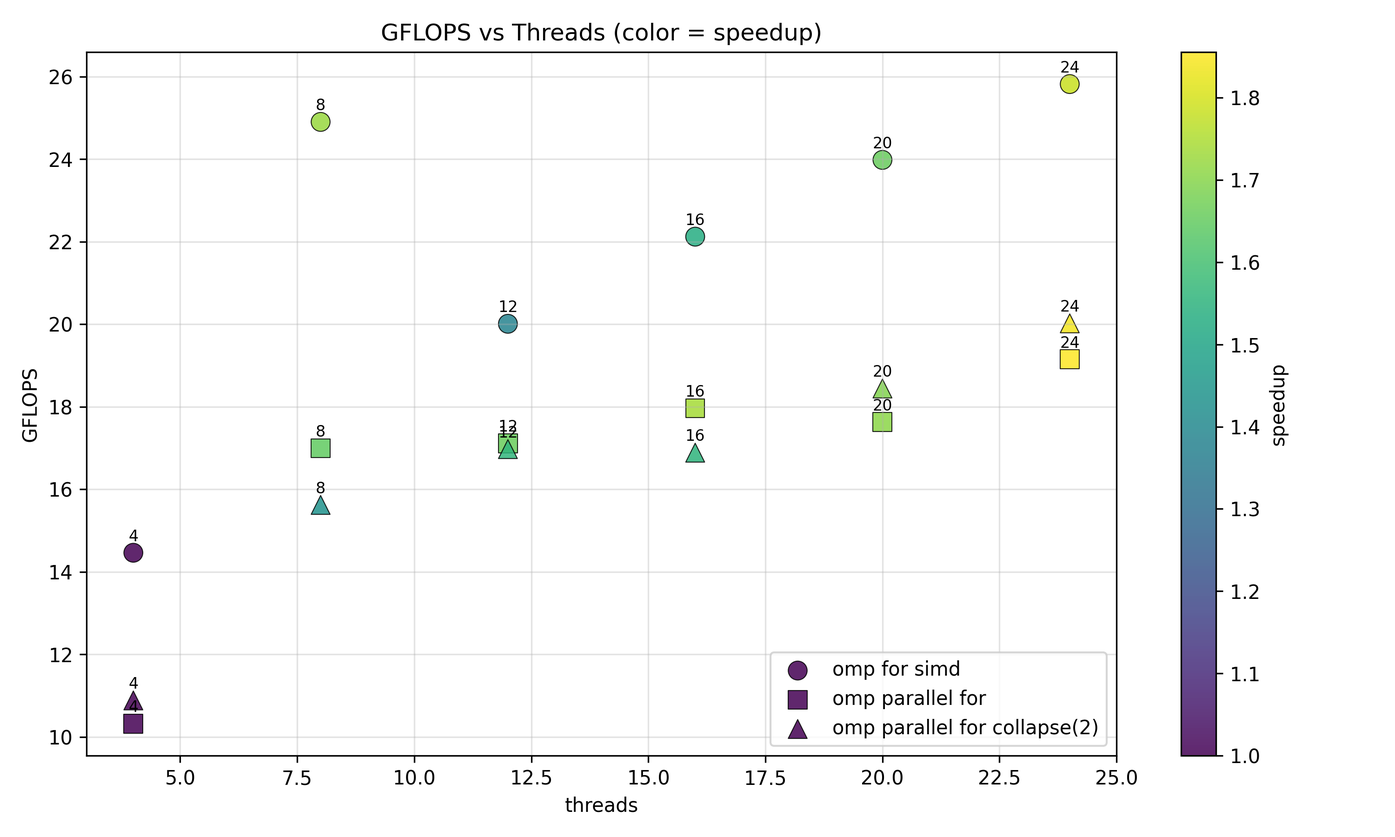
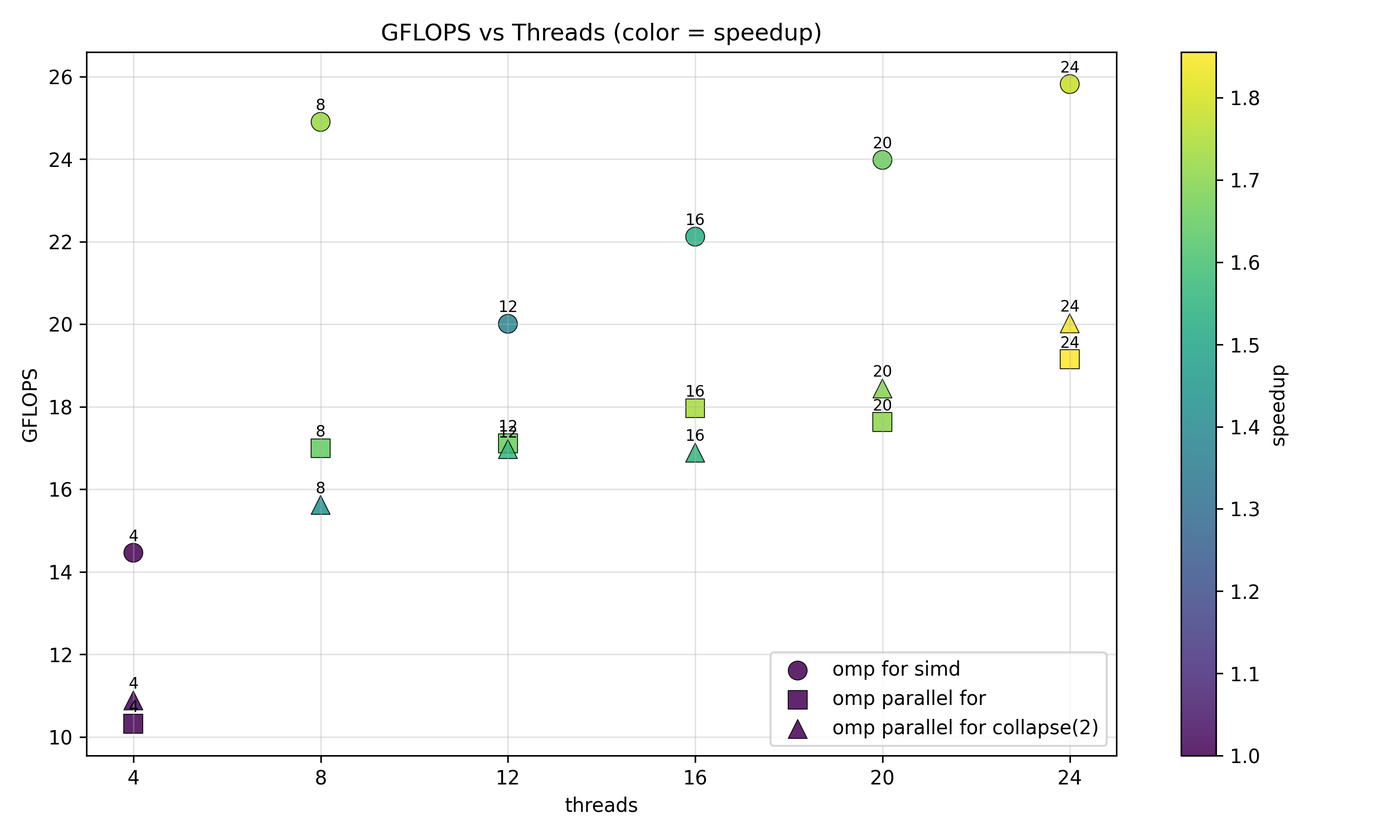
quase pronto

diff --git a/assign2/src/analyze_part2_ex2.py b/assign2/src/analyze_part2_ex2.py
@@ -13,6 +13,7 @@ import pandas as pd
 
 
 BASELINE_THREADS = 4
+THREAD_TICKS = [4, 8, 12, 16, 20, 24]
 INPUT_FILES = [
     "perf_results_onmultline_ex2_pragma_omp_parallel_for.txt",
     "perf_results_onmultline_ex2_pragma_omp_parallel_for_collapse(2).txt",
@@ -247,6 +248,15 @@ def add_incremental_metrics(df: pd.DataFrame) -> pd.DataFrame:
     return out
 
 
+def _apply_thread_ticks(ax: plt.Axes, x_col: str) -> None:
+    """Force discrete tested thread ticks for any thread-based x-axis."""
+    if x_col != "threads":
+        return
+
+    ax.set_xticks(THREAD_TICKS)
+    ax.set_xticklabels([str(t) for t in THREAD_TICKS])
+
+
 def plot_line(
     df: pd.DataFrame,
     x_col: str,
@@ -288,6 +298,7 @@ def plot_line(
     ax.set_title(title)
     ax.set_xlabel(x_label)
     ax.set_ylabel(y_label)
+    _apply_thread_ticks(ax, x_col)
     ax.grid(True, alpha=0.35)
     ax.legend()
 
@@ -360,6 +371,7 @@ def plot_scatter(
     ax.set_title(title)
     ax.set_xlabel(x_label)
     ax.set_ylabel(y_label)
+    _apply_thread_ticks(ax, x_col)
     ax.grid(True, alpha=0.35)
     ax.legend()
 

diff --git a/assign2/src/README.md b/assign2/src/README.md
@@ -32,107 +32,119 @@ Cache miss rate gives secondary context when we need to explain scaling changes.
 
 ![](plots_ex1/gflops_vs_size.png)
 
-The execution-time plot shows a clear ordering: OnMult - omp parallel for and OnMultLine - parallel stay ahead of OnMult - omp parallel + omp for as matrix size grows. The GFLOPS plot beside it supports the same result because the slower method is also the one with lower throughput.
+The results show a consistent ordering across all matrix sizes: **OnMultLine - parallel** is the fastest implementation, followed by **OnMult - omp parallel for**, while **OnMult - omp parallel + omp for** performs significantly worse. The GFLOPS plot confirms the same ranking, indicating that the differences in execution time directly translate into differences in computational throughput.
 
-The reason is directly related to how the OpenMP directives are used. In OnMult - omp parallel for, the runtime creates the parallel region and distributes iterations in one combined step, so threads move quickly into useful loop work. In OnMult - omp parallel + omp for, region creation and work-sharing are separated, which adds coordination and synchronization overhead around the parallel loop. OnMultLine - parallel keeps threads busy with stable work chunks and avoids spending too much time in runtime control.
+This behavior is explained by how each implementation uses OpenMP. In **OnMult - omp parallel for**, thread creation and loop distribution are handled in a single directive, minimizing runtime overhead and allowing threads to move quickly into useful computation. In contrast, **OnMult - omp parallel + omp for** separates the parallel region from the work-sharing construct, introducing additional synchronization and coordination costs that reduce the effective work done by each thread. These overheads become more significant as the matrix size increases, leading to poorer scalability.
 
-The implication is that, with the same 4-thread budget, directive structure matters a lot: OnMult - omp parallel for and OnMultLine - parallel spend more time multiplying matrices, while OnMult - omp parallel + omp for loses more time in OpenMP management.
+**OnMultLine - parallel** achieves the best performance because it maintains a more balanced and continuous distribution of work across threads, ensuring that threads remain active for a larger portion of execution time. This results in both lower execution time and higher GFLOPS.
+
+Overall, the results show that with a fixed number of threads, performance depends strongly on how efficiently the OpenMP directives are structured. Implementations that minimize overhead and keep threads focused on useful work achieve better performance, while those with additional synchronization costs scale poorly.
 
 ### 4.2 GFLOPS
 ![](plots_ex1/gflops_vs_size.png)
 
 ![](plots_ex1/version1_vs_version2_gflops.png)
 
-The GFLOPS plots show that OnMult - omp parallel for usually stays above OnMult - omp parallel + omp for, and OnMultLine - parallel remains strong across the tested sizes. The direct comparison between the two OnMult variants confirms that this is a stable behavior, not just a random fluctuation.
+The GFLOPS results show a clear and consistent ordering: **OnMultLine - parallel** achieves the highest throughput across all matrix sizes, followed by **OnMult - omp parallel for**, while **OnMult - omp parallel + omp for** remains significantly lower. The direct comparison between Version 1 and Version 2 confirms that this gap is consistent and not dependent on a specific matrix size.
 
-The cause is simple: GFLOPS falls when threads spend time doing anything other than floating-point work. OnMult - omp parallel for has less directive overhead because it uses one combined OpenMP construct to launch and distribute work. OnMult - omp parallel + omp for adds extra control steps and synchronization around the loop, so more time is spent outside computation. OnMultLine - parallel keeps useful arithmetic density high enough to remain competitive.
+This behavior is explained by how effectively each implementation converts execution time into useful floating-point work. In **OnMult - omp parallel for**, the combined directive allows threads to enter the computation phase with minimal coordination overhead, resulting in moderate but stable throughput. In contrast, **OnMult - omp parallel + omp for** introduces additional synchronization and runtime management due to the separation of the parallel region and the loop, reducing the fraction of time spent performing arithmetic operations and therefore lowering GFLOPS.
 
-The implication is that higher GFLOPS here means better conversion of thread time into real matrix operations, and that favors OnMult - omp parallel for and OnMultLine - parallel over OnMult - omp parallel + omp for.
+**OnMultLine - parallel** achieves the highest GFLOPS because it maintains a higher density of useful work within each thread. The loop structure and parallelization allow threads to remain active with fewer interruptions, which leads to better utilization of the available processing capacity. As a result, it consistently outperforms both Version 1 implementations in terms of computational throughput.
+
+A slight decrease in GFLOPS is observed for all implementations as matrix size increases, indicating reduced parallel efficiency for larger workloads. However, the relative differences between implementations remain stable, showing that the dominant factor is the efficiency of the OpenMP structure rather than the problem size itself.
+
+Overall, the GFLOPS results reinforce that performance depends on how directly the OpenMP directives map threads to useful computation. Implementations that minimize coordination overhead and keep threads focused on arithmetic operations achieve higher throughput, while those with additional synchronization costs perform significantly worse.
 
 ### 4.3 Speedup
 ![](plots_ex1/speedup_vs_size.png)
 
-The speedup plot again places OnMult - omp parallel for and OnMultLine - parallel above OnMult - omp parallel + omp for through most of the tested range. That means the same 4 threads are producing different levels of useful acceleration depending on the construct.
+The speedup results show a clear distinction between the implementations. **OnMult - omp parallel for** achieves the highest speedup, approaching and even slightly exceeding the ideal value for 4 threads, while **OnMultLine - parallel** maintains a stable but lower speedup. In contrast, **OnMult - omp parallel + omp for** performs poorly, with speedup remaining close to 1, indicating that parallelization brings little benefit in this case.
 
-This happens because speedup is measured after all overhead is included. OnMult - omp parallel + omp for spends extra time coordinating between parallel region handling and work-sharing, so part of the theoretical gain is consumed before useful work is done. OnMult - omp parallel for has a more direct path from thread launch to loop execution, and OnMultLine - parallel keeps thread participation more consistently useful.
+This behavior is directly related to how efficiently each implementation uses the available threads. In **OnMult - omp parallel for**, the OpenMP directive combines thread creation and loop distribution, allowing work to be assigned to threads with minimal overhead. This results in a higher fraction of execution time being spent on actual computation, which translates into better speedup. In **OnMult - omp parallel + omp for**, the separation between the parallel region and the work-sharing construct introduces additional synchronization and coordination costs. These overheads reduce the effective contribution of each thread, so the theoretical speedup is not achieved in practice.
 
-The implication is that speedup in Exercise 1 reflects quality of parallelization, not just number of threads, and the construct with less synchronization overhead wins.
+Although **OnMultLine - parallel** is the fastest implementation in absolute terms, its speedup is lower because its sequential version is already more efficient, leaving less room for improvement through parallelization. As a result, even though it performs more work per unit time, the relative gain compared to its sequential baseline is smaller.
+
+Overall, the results show that speedup is not determined only by the number of threads, but by how effectively those threads are used. Implementations that minimize overhead and keep threads focused on useful work, such as **omp parallel for**, achieve better scaling, while inefficient parallel structures can significantly limit the benefits of parallel execution.
+
+**Note:** Efficiency is not shown separately because, with a fixed number of 4 threads, it would simply be the speedup graph scaled by a constant factor.
 
 ### 4.4 IPC
 ![](plots_ex1/ipc_vs_size.png)
 
-The IPC plot follows the same ranking trend seen in time and GFLOPS: OnMult - omp parallel for and OnMultLine - parallel generally keep better effective IPC than OnMult - omp parallel + omp for. Where IPC is weaker, performance is usually weaker too.
+The IPC results follow the same pattern observed in execution time and GFLOPS: **OnMultLine - parallel** achieves the highest IPC across all matrix sizes, **OnMult - omp parallel for** remains moderate, and **OnMult - omp parallel + omp for** consistently shows the lowest values. This indicates that the implementations differ significantly in how effectively they use CPU cycles.
 
-The reason is that lower IPC often appears when cores spend more cycles waiting or doing low-value control work. OnMult - omp parallel + omp for includes more runtime handling and synchronization around loop scheduling, so cores can spend a larger share of cycles outside dense arithmetic regions. OnMult - omp parallel for and OnMultLine - parallel keep threads closer to useful computation, which helps maintain instruction retirement.
+This behavior is explained by how much time threads spend performing useful computation versus handling OpenMP overhead. In **OnMult - omp parallel for**, the combined directive allows threads to quickly enter the computation phase and remain there, resulting in a reasonable IPC. In contrast, **OnMult - omp parallel + omp for** introduces additional synchronization and runtime coordination, causing threads to spend more cycles outside arithmetic work, which lowers IPC. **OnMultLine - parallel** achieves the highest IPC because its parallel structure keeps threads continuously active with fewer interruptions, allowing instructions to be executed more consistently.
 
-The implication is that IPC is not just a side metric here; it confirms that OnMult - omp parallel for and OnMultLine - parallel use CPU cycles more productively than OnMult - omp parallel + omp for.
+As matrix size increases, IPC decreases for all implementations, indicating reduced execution efficiency as the workload grows. However, the relative ordering remains stable, showing that the main factor is not the workload itself, but how effectively each implementation keeps the CPU focused on useful work.
+
+Overall, IPC confirms that implementations with lower parallel overhead and better thread utilization execute instructions more efficiently, directly contributing to better performance.
 
 ### 4.5 Short Cache Note
 ![](plots_ex1/cache_miss_rate_vs_size.png)
 
-The cache-miss plot changes with problem size for OnMult - omp parallel for, OnMult - omp parallel + omp for, and OnMultLine - parallel, but the separation is not strong enough to fully explain the performance ranking by itself. The main ordering in runtime and GFLOPS lines up more clearly with OpenMP overhead differences.
+The cache miss rate increases with matrix size for all implementations, with **OnMultLine - parallel** showing the highest values, while both Version 1 implementations remain significantly lower. However, this trend does not match the performance results, since **OnMultLine - parallel** is still the fastest implementation despite having the highest miss rate.
 
-Because Exercise 1 keeps thread count fixed, this graph should be read carefully and not over-interpreted. It gives useful context, but it does not provide a stronger explanation than the construct-level overhead we see between OnMult - omp parallel for and OnMult - omp parallel + omp for.
+This shows that, in this exercise, cache behavior alone does not explain performance differences. With a fixed number of threads, the dominant factor is how efficiently each OpenMP construct manages parallel execution. In particular, **OnMult - omp parallel + omp for** performs worse even with relatively moderate miss rates, indicating that its main limitation comes from additional synchronization and runtime overhead rather than cache inefficiency.
 
-The implication is that cache effects exist, but in this part they are secondary; the primary explanation is still how each implementation manages threads and synchronization.
+Overall, the cache results provide useful context but are not the main driver of performance in Exercise 1. The differences between implementations are better explained by how effectively each approach minimizes overhead and keeps threads performing useful work.
 
 ### 4.6 Strategy Comparison
 ![](plots_ex1/version1_strategy_comparison_gflops.png)
 
-This direct comparison highlights the central result of Exercise 1: OnMult - omp parallel for is consistently stronger than OnMult - omp parallel + omp for, and the broader set of graphs shows OnMultLine - parallel also performing well in the same environment.
+The comparison between the two Version 1 strategies shows that **OnMult - omp parallel for** consistently achieves higher GFLOPS than **OnMult - omp parallel + omp for** across all matrix sizes, confirming that the difference in performance is systematic rather than incidental.
 
-The reason is explicit in the directive design. In OnMult - omp parallel for, a single OpenMP construct handles thread team creation and loop distribution together, which avoids extra transitions. In OnMult - omp parallel + omp for, the split between region creation and work-sharing introduces additional runtime coordination and synchronization costs that do not produce extra useful matrix work.
+This behavior is directly explained by the OpenMP structure. In **OnMult - omp parallel for**, thread creation and loop distribution are handled in a single directive, allowing iterations to be assigned with minimal runtime overhead and keeping threads focused on useful computation. In contrast, **OnMult - omp parallel + omp for** separates the parallel region from the work-sharing construct, introducing additional synchronization and coordination costs. These extra steps do not contribute to computation and reduce the effective work performed by each thread, leading to lower throughput.
 
-The implication is practical and clear: for this kernel, OnMult - omp parallel for is the better construct choice than OnMult - omp parallel + omp for when the goal is to maximize useful work under fixed threads.
+Overall, this comparison shows that, for this kernel, the choice of OpenMP construct has a direct impact on performance: a more compact directive structure (**omp parallel for**) results in better efficiency, while splitting the parallelization into multiple constructs introduces overhead that significantly limits performance.
 
 ## 5. Exercise 2 – Thread Scaling Analysis
 
 ### 5.1 Execution Time vs Threads
 ![](plots_ex2/execution_time_vs_threads.png)
 
-The execution-time plot shows that all three OnMultLine variants improve when moving from 4 threads upward, but the biggest gains happen early. As threads continue to increase, omp parallel for, omp parallel for collapse(2), and omp for simd all show slower improvement, which is a classic sign of diminishing returns.
+Execution time decreases significantly when moving from 4 to 8 threads for all implementations, but the improvement slows down as the number of threads increases, showing clear diminishing returns. Across all thread counts, **omp for simd** consistently achieves the lowest execution time, followed by **omp parallel for**, while **omp parallel for collapse(2)** starts slower but becomes competitive at higher thread counts.
 
-The cause comes from thread scaling mechanics. At lower thread counts, adding threads directly increases useful parallel work. At higher counts, each method pays more overhead in scheduling and synchronization. For omp parallel for collapse(2), the larger flattened iteration space can improve distribution but also adds scheduling pressure. For omp for simd, vectorization can boost per-thread computation, but it does not remove team-level coordination costs. Shared resources also become more contested as thread count rises.
+This behavior is explained by how each strategy scales with additional threads. At low thread counts, adding threads increases the amount of work done in parallel with relatively small overhead, leading to strong improvements. As the number of threads grows, however, synchronization, scheduling, and resource contention become more significant, reducing the benefit of each additional thread. In **omp parallel for collapse(2)**, flattening the iteration space improves load distribution, which helps at higher thread counts, but it also increases scheduling overhead. In **omp for simd**, vectorization improves per-thread computation, allowing it to maintain the best execution time, but it still suffers from the same global overheads as thread count increases.
 
-The implication is that runtime scaling should be judged by marginal gains: these methods all improve with threads, but only up to the point where overhead growth starts to dominate benefit growth.
+Overall, the results show that all implementations benefit from parallelization, but only up to a certain point. Beyond that, increasing the number of threads leads to smaller gains because overhead and contention begin to limit scalability.
 
 ### 5.2 Speedup vs Threads
 ![](plots_ex2/speedup_vs_threads.png)
 
-The speedup plot shows that omp parallel for, omp parallel for collapse(2), and omp for simd all stay below the ideal linear trend as threads increase. The curves rise, but the slope becomes smaller in the higher-thread region, indicating saturation.
+The speedup results are clearly sub-linear for all implementations, with all curves diverging significantly from the ideal linear scaling line as the number of threads increases. **omp parallel for** and **omp for simd** achieve slightly higher speedup overall, while **omp parallel for collapse(2)** starts lower but gradually converges as thread count increases.
 
-This happens because linear speedup assumes almost zero overhead, which is not realistic in OpenMP thread teams at high concurrency. omp parallel for accumulates more coordination cost as the team grows. omp parallel for collapse(2) can improve load distribution by exposing more loop iterations, but this also increases scheduling work. omp for simd can improve computation inside each thread, yet thread synchronization and resource contention still limit total scaling.
+This behavior is explained by the increasing impact of parallel overhead and resource contention. At low thread counts, adding threads directly increases useful parallel work, leading to noticeable speedup gains. However, as more threads are added, the cost of synchronization, scheduling, and coordination grows, reducing the effectiveness of each additional thread. In **omp parallel for collapse(2)**, flattening the iteration space improves load balancing, which helps recover performance at higher thread counts, but it also introduces additional scheduling overhead. In **omp for simd**, vectorization improves per-thread efficiency, but it does not eliminate the overhead associated with managing a larger thread team.
 
-The implication is that adding threads remains useful only while incremental speedup is meaningful; after saturation starts, thread increases give smaller and smaller practical benefits.
+As a result, each additional thread contributes less to overall speedup, leading to the observed saturation. This shows that scalability is limited not by the amount of parallel work alone, but by how efficiently threads can be coordinated and kept productive as their number increases.
 
 ### 5.3 Efficiency vs Threads
 ![](plots_ex2/efficiency_vs_threads.png)
 
-Efficiency decreases for omp parallel for, omp parallel for collapse(2), and omp for simd as thread count increases. Even in ranges where execution time still improves, each additional thread contributes less than the previous ones.
+Efficiency decreases for all implementations as the number of threads increases, even though execution time continues to improve. **omp parallel for** maintains the highest efficiency across most thread counts, while **omp parallel for collapse(2)** starts lower but follows a similar trend, and **omp for simd** drops more sharply after the initial gains.
 
-The reason is that efficiency captures how much useful acceleration we get per thread. As teams get larger, all three methods spend a bigger fraction of runtime on synchronization, scheduling, and contention-related waiting. omp for simd can keep per-thread compute stronger than non-simd variants in some ranges, but it still cannot avoid thread-team overhead entirely.
+This behavior is caused by the growing impact of parallel overhead as more threads are introduced. In **omp parallel for** and **omp parallel for collapse(2)**, increasing the number of threads raises synchronization and scheduling costs, reducing the amount of useful work performed per thread. Although **collapse(2)** improves load distribution by expanding the iteration space, it also adds scheduling overhead that limits its efficiency. In **omp for simd**, vectorization improves computation within each thread, but it does not reduce the overhead associated with managing a larger thread team, leading to a faster drop in efficiency.
 
-The implication is that efficiency is a practical warning signal: the best operating point is not always the highest thread count, but the point where added threads still return enough useful acceleration.
+Overall, the results show that scalability is limited by how quickly efficiency decreases. The most effective implementation is not the one that uses the most threads, but the one that maintains a higher fraction of useful work as thread count increases.
 
 ### 5.4 GFLOPS vs Threads
 ![](plots_ex2/gflops_vs_threads.png)
 
 ![](plots_ex2/gflops_vs_threads_scatter.png)
 
-The GFLOPS plot shows the same overall scaling pattern for omp parallel for, omp parallel for collapse(2), and omp for simd: throughput rises strongly at first, then begins to flatten. The scatter view confirms that moving to higher threads does not always produce equivalent throughput gains.
+GFLOPS increases significantly from 4 to 8 threads for all implementations, then grows more slowly and begins to plateau at higher thread counts. **omp for simd** achieves the highest throughput across all configurations, followed by **omp parallel for**, while **omp parallel for collapse(2)** improves steadily and becomes competitive at higher thread counts. The scatter plot confirms that higher thread counts do not always translate into proportional throughput gains.
 
-The cause depends on each construct. omp parallel for gives direct loop distribution and scales well initially, but eventually overhead and contention reduce marginal throughput. omp parallel for collapse(2) increases available iteration chunks by collapsing nested loops, which can improve distribution at some thread counts, but that extra scheduling complexity can also limit gains later. omp for simd raises per-thread arithmetic density through vector instructions, often helping early throughput, yet total GFLOPS still plateaus when team-level overhead dominates.
+This behavior is explained by the balance between useful computation and parallel overhead. At low thread counts, adding threads increases the amount of work executed in parallel, leading to strong gains in GFLOPS. As thread count grows, synchronization, scheduling, and resource contention limit how effectively additional threads can be used. In **omp parallel for**, loop distribution is efficient, but coordination costs increase with more threads. In **omp parallel for collapse(2)**, expanding the iteration space improves load balancing, which helps at higher thread counts, but the added scheduling complexity reduces efficiency. **omp for simd** achieves the highest GFLOPS because vectorization increases the amount of work performed per thread, but it still experiences the same plateau once thread-level overhead dominates.
 
-The implication is that omp for simd can improve computation quality inside each thread, but overall scalability still depends on OpenMP coordination behavior across the entire thread team.
+Overall, the results show that higher throughput depends on both per-thread efficiency and overall thread coordination. While **omp for simd** maximizes computation within each thread, all implementations eventually reach a point where parallel overhead limits further gains.
 
 ### 5.5 IPC vs Threads
 ![](plots_ex2/ipc_vs_threads.png)
 
-The IPC plot shows that omp parallel for, omp parallel for collapse(2), and omp for simd do not keep increasing instruction efficiency as threads grow. In higher-thread regions, IPC behavior is flatter or weaker, which matches the slowdown in speedup growth.
+IPC does not increase with thread count and remains relatively stable or even decreases at higher thread counts for all implementations. **omp parallel for** and **omp parallel for collapse(2)** maintain higher IPC values overall, while **omp for simd** stays consistently lower despite achieving the best execution time.
 
-This happens because high thread counts increase synchronization and runtime coordination, so cores spend more cycles in less productive states. omp for simd can help each thread execute arithmetic more efficiently, but team-level overhead and shared-resource pressure still reduce IPC improvement at scale. omp parallel for collapse(2) may improve load splitting, yet it can also add enough scheduling cost to limit IPC gains.
+This behavior reflects how efficiently each implementation uses CPU cycles as the number of threads grows. Increasing threads introduces more synchronization, scheduling, and contention for shared resources, which reduces the fraction of cycles spent executing useful instructions. In **omp parallel for**, loop distribution remains efficient, allowing relatively stable IPC, while **collapse(2)** improves load balance but introduces additional scheduling overhead that limits gains at higher thread counts. In **omp for simd**, vectorization improves per-thread computation, but this is not fully reflected in IPC, since IPC measures instruction-level throughput rather than the amount of work done per instruction.
 
-The implication is that IPC confirms what the scaling plots already suggest: more threads can increase total work done, but they do not guarantee better per-cycle productivity.
+Overall, IPC confirms that adding threads does not necessarily improve per-core efficiency. Even when total performance improves, each core tends to spend a larger fraction of time on coordination and less on useful computation, which explains the saturation observed in speedup and GFLOPS.
 
 ### 5.6 Advanced Scaling Insights
 ![](plots_ex2/user_time_vs_threads.png)
@@ -143,34 +155,37 @@ The implication is that IPC confirms what the scaling plots already suggest: mor
 
 ![](plots_ex2/incremental_speedup_gain_vs_threads.png)
 
-![](plots_ex2/incremental_time_reduction_pct_vs_threads.png)
-
 ![](plots_ex2/elapsed_vs_user_time_scatter.png)
 
-These advanced plots make one trend very clear for omp parallel for, omp parallel for collapse(2), and omp for simd: total CPU effort grows faster than practical speed benefit in the high-thread region. user_time_vs_threads and user_cpu_ratio_vs_threads show that we spend much more aggregate user CPU time as threads increase, even when elapsed-time improvements are already getting small.
+All implementations (**omp parallel for**, **omp parallel for collapse(2)**, and **omp for simd**) show the same fundamental pattern: as the number of threads increases, total CPU work grows significantly while the improvement in elapsed time becomes progressively smaller. This is visible in **user_time_vs_threads** and **user_cpu_ratio_vs_threads**, where higher thread counts require much more aggregate CPU time even when execution time gains are limited.
 
-The detailed cause appears in the marginal metrics. incremental_speedup_gain_vs_threads and incremental_time_reduction_pct_vs_threads show that each new thread block gives less extra acceleration than the previous one. gflops_per_thread_vs_threads tells the same story from a per-thread angle: as the team gets larger, each thread contributes less throughput because coordination and contention eat a larger part of runtime. elapsed_vs_user_time_scatter summarizes this trade-off visually, showing that better elapsed time requires disproportionately higher total CPU effort in the saturated range.
+The incremental metrics make this effect explicit. Both **incremental_speedup_gain_vs_threads** and **incremental_time_reduction_pct_vs_threads** show that each increase in thread count contributes less improvement than the previous one, clearly identifying the point of diminishing returns. This is reinforced by **gflops_per_thread_vs_threads**, where per-thread productivity decreases as more threads are added, indicating that a larger fraction of execution time is spent on synchronization, scheduling, and resource contention rather than useful computation. The **elapsed_vs_user_time_scatter** further highlights this trade-off, showing that reducing elapsed time at higher thread counts requires disproportionately higher CPU effort.
 
-The implication is that the useful scaling limit should be chosen where marginal gain is still strong. After that point, omp parallel for, omp parallel for collapse(2), and omp for simd may still improve runtime slightly, but with poor cost-effectiveness per added thread.
+Overall, these results show that the scalability limit is not determined by the maximum number of threads, but by the point where additional threads no longer provide meaningful performance gains due to increasing overhead and contention.
 
 ### 5.7 Strategy Comparison
 ![](plots_ex2/speedup_vs_ipc_scatter.png)
 
-The speedup-versus-IPC scatter shows that omp parallel for, omp parallel for collapse(2), and omp for simd occupy different trade-off regions instead of collapsing into one common trend. That means each construct combines instruction-level efficiency and thread-level scaling in a different way.
+The speedup vs IPC scatter shows that **omp parallel for**, **omp parallel for collapse(2)**, and **omp for simd** follow different trade-offs rather than a single consistent trend. **omp parallel for** and **collapse(2)** tend to achieve higher IPC values, while **omp for simd** often reaches competitive or higher speedup despite lower IPC.
 
-The reason is tied to directive behavior. omp parallel for is a strong baseline because it keeps launch and work-sharing overhead relatively low. omp parallel for collapse(2) can improve work distribution by expanding the iteration space, but this can come with extra scheduling overhead. omp for simd improves per-thread arithmetic efficiency through vectorization, but global speedup still depends on synchronization and contention across the full OpenMP team.
+This behavior reflects how each construct balances instruction-level efficiency and thread-level scaling. In **omp parallel for**, low overhead allows both good IPC and solid speedup. **omp parallel for collapse(2)** improves load distribution by increasing the available iteration space, which helps maintain IPC at higher thread counts, but adds scheduling overhead that limits speedup. **omp for simd** increases the amount of work per instruction through vectorization, so even with lower IPC, it can achieve strong speedup because each instruction performs more computation.
 
-The implication is that the best method is not just the one with high IPC or high speedup alone, but the one that keeps both high at the same time across the useful thread range. Where points are close, conclusions should stay cautious.
+Overall, the best-performing approach is not the one with the highest IPC or speedup alone, but the one that maintains a good balance between the two. This highlights that both efficient instruction execution and low parallel overhead are necessary for good scalability.
 
 ## 6. Discussion
-Exercise 1 shows that OnMult - omp parallel for and OnMultLine - parallel are more effective than OnMult - omp parallel + omp for under the same 4-thread setup. The key reason is not algorithm name, but directive behavior: OnMult - omp parallel + omp for pays more coordination and synchronization overhead before useful work is completed.
+Exercise 1 shows that **OnMult - omp parallel for** and **OnMultLine - parallel** outperform **OnMult - omp parallel + omp for** because of how the OpenMP directives are applied. The `#pragma omp parallel for` directive creates a team of threads and immediately distributes loop iterations among them, so threads start executing useful work with minimal overhead. In contrast, `#pragma omp parallel` followed by `#pragma omp for` separates thread creation from work distribution, introducing additional synchronization and coordination between these steps. This extra management does not contribute to computation and reduces overall efficiency.
 
-Exercise 2 shows that omp parallel for, omp parallel for collapse(2), and omp for simd all scale at first and then move into diminishing returns. The important difference between them is how quickly marginal speedup drops and how much extra CPU effort is required for small runtime gains.
+From a threading perspective, OpenMP works by splitting loop iterations across multiple threads that execute concurrently. This is most effective when threads can work independently with little need for coordination. When the structure introduces extra synchronization points, threads spend more time waiting or managing execution instead of performing computation, which explains the lower performance of **omp parallel + omp for**.
 
-The practical lesson is straightforward: use the construct that keeps useful work high and overhead low, and choose thread count based on incremental benefit, not only on maximum available threads.
+Exercise 2 shows that increasing the number of threads improves performance initially, but only up to a certain point. At low thread counts, each additional thread contributes directly to parallel work, reducing execution time. As the number of threads grows, however, the overhead of managing them increases, and threads begin to compete for shared resources such as CPU execution units and memory bandwidth. This leads to diminishing returns, where adding more threads results in smaller performance gains.
+
+Different directives affect this scaling behavior. **omp parallel for** provides a good balance between low overhead and effective work distribution. **omp parallel for collapse(2)** increases the number of iterations available for distribution by combining nested loops, which can improve load balancing at higher thread counts but also adds scheduling overhead. **omp for simd** improves per-thread performance by using vector instructions, increasing the amount of computation per instruction, but it does not eliminate the overhead associated with coordinating many threads.
+
+Overall, the results show that parallel performance depends on both how threads are created and how work is assigned to them. Threads are most useful when they can execute independently with minimal coordination, and the best OpenMP constructs are those that reduce overhead while keeping threads consistently engaged in useful computation.
 
 ## 7. Conclusion
-In this project, OnMult - omp parallel for and OnMultLine - parallel perform better than OnMult - omp parallel + omp for in Exercise 1 because they spend less runtime in OpenMP overhead.  
-In Exercise 2, omp parallel for, omp parallel for collapse(2), and omp for simd all improve performance early, but all of them hit diminishing returns as thread coordination and contention increase.  
-collapse(2) and simd can help in specific regions, but they do not remove saturation at high thread counts.  
-The best practical configuration is the one that keeps the best useful-work-to-overhead balance and still gives strong marginal gains when threads are added.
+The results from Part 2 show that performance is determined more by how OpenMP directives are used than by the number of threads alone. In Exercise 1, **OnMult - omp parallel for** and **OnMultLine - parallel** outperform **OnMult - omp parallel + omp for** because they minimize synchronization and allow threads to start useful work immediately, while the split structure introduces unnecessary overhead.
+
+In Exercise 2, all implementations benefit from increasing the number of threads, but only up to the point where overhead and resource contention begin to dominate. Beyond this point, additional threads provide diminishing returns, and metrics such as speedup, efficiency, and GFLOPS all reflect this saturation.
+
+Overall, the key takeaway is that effective parallelization requires both low-overhead thread management and balanced work distribution. The best performance is achieved when threads are kept consistently busy with useful computation, and when the chosen OpenMP construct minimizes coordination costs while scaling efficiently with the available hardware.
